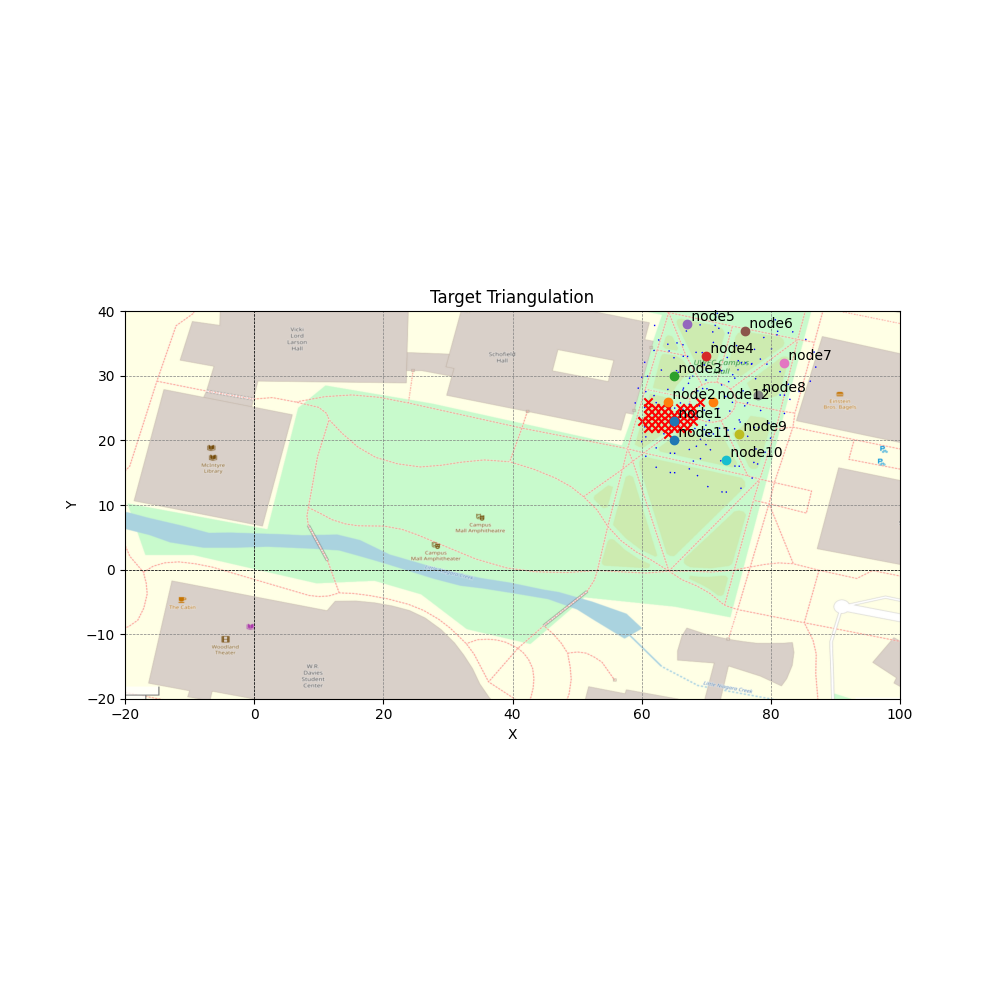
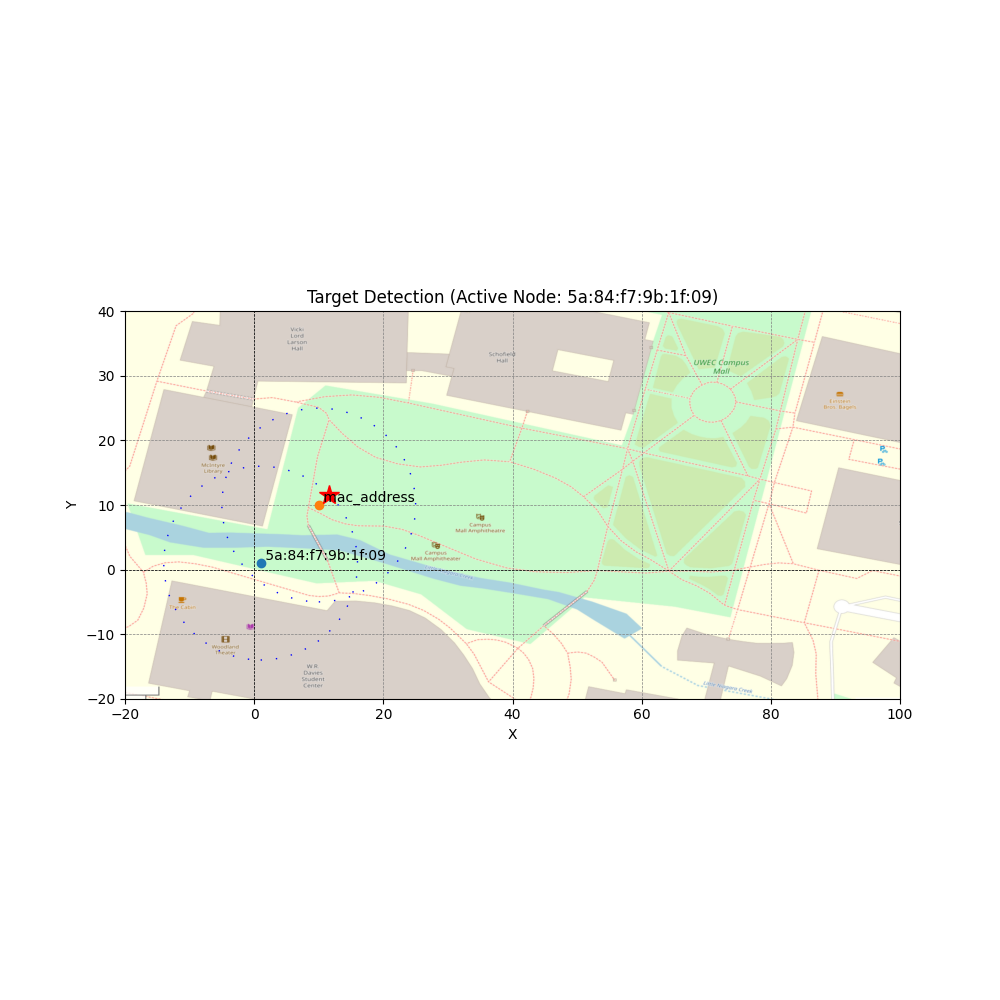
Added basic wifi functionality and start of single kiwi proof of concept

Changed region(s): [[0.31, 0.279, 0.837, 0.465], [0.279, 0.465, 0.403, 0.558], [0.248, 0.558, 0.279, 0.589]]

diff --git a/single_kiwi_tracking.py b/single_kiwi_tracking.py
@@ -1,0 +1,118 @@
+"""
+This file is only for the single kiwibot proof of concept, intended to draw the map with the location of that one kiwibot which travels between the lab and farther down VLL
+
+Therefore, it only handles a single target detected by a single node, so it just averages the location of the bot when detected by a node
+
+Range in this case will be feet. It should be just plain feet but the nodes will be inside so that complicates things, we'll probably just manually measure it with the nodes inside and adjust accordingly
+"""
+
+class Node:
+  def __init__(self, name, id, x, y, range, signal_detected=False):
+    self.name = name
+    self.id = id
+    self.x = x
+    self.y = y
+    self.range = range
+    self.signal_detected = False
+
+node1 = Node("Lab node", "5a:84:f7:9b:1f:09", 1, 1, 15)
+node2 = Node("VLL node", "mac_address", 10, 10, 15)
+
+import math
+import matplotlib.pyplot as plt
+import matplotlib.image as mpimg
+
+# Example Node class
+
+def update_nodes_from_cache(node1, node2, cache_file='cache.txt'):
+    """
+    Reads the cache file to determine which node last detected the target.
+    Each line in the file is in the format: "id strength timestamp".
+    The node with the most recent timestamp is marked as detecting the target.
+    """
+    signals = []
+    try:
+        with open(cache_file, 'r') as f:
+            for line in f:
+                parts = line.strip().split()
+                if len(parts) < 3:
+                    continue  # Skip any improperly formatted lines
+                id = parts[0]
+                strength = float(parts[1])
+                timestamp = float(parts[2])
+                signals.append((id, strength, timestamp))
+    except FileNotFoundError:
+        print(f"Cache file '{cache_file}' not found.")
+        return
+
+    if not signals:
+        print("No valid signals found in cache.")
+        return
+
+    # Determine the most recent signal by timestamp
+    signals.sort(key=lambda s: s[2], reverse=True)
+    latest_signal = signals[0]
+    id = latest_signal[0]
+
+    # Reset detection status and mark the active node
+    node1.signal_detected = (node1.id == id)
+    node2.signal_detected = (node2.id == id)
+
+    print(f"Target detected by {id} at timestamp {latest_signal[2]} with strength {latest_signal[1]}.")
+
+def plot_target(node1, node2, angle_degrees=45):
+    """
+    Plots the nodes and draws the target at a distance equal to the node's range
+    in the direction specified by angle_degrees from the active node.
+    """
+    # Determine which node detected the target
+    active_node = None
+    for node in (node1, node2):
+        if node.signal_detected:
+            active_node = node
+            break
+
+    if active_node is None:
+        print("No detection signal from either node.")
+        return
+
+    # Compute target position as an offset from the active node
+    angle = math.radians(angle_degrees)
+    target_x = active_node.x + active_node.range * math.cos(angle)
+    target_y = active_node.y + active_node.range * math.sin(angle)
+
+    # Set up the plot with a background image
+    plt.figure(figsize=(10, 10))
+    img = mpimg.imread('static/images/map.png')
+    plt.imshow(img, extent=[-20, 100, -20, 40])  # Adjust extent as needed
+
+    # Plot each node and its detection range circle
+    for node in (node1, node2):
+        circle = plt.Circle((node.x, node.y), node.range, color='blue', fill=False, linestyle=(0, (1, 10)))
+        plt.gca().add_artist(circle)
+        plt.plot(node.x, node.y, 'o', label=node.id)
+        plt.text(node.x, node.y, f' {node.id}', fontsize=10, verticalalignment='bottom')
+
+    # Mark the target position (red star)
+    plt.plot(target_x, target_y, 'r*', markersize=15, label='Target')
+
+    # Additional plot settings
+    plt.xlim(-20, 100)
+    plt.ylim(-20, 40)
+    plt.title(f'Target Detection (Active Node: {active_node.id})')
+    plt.xlabel('X')
+    plt.ylabel('Y')
+    plt.axhline(0, color='black', linewidth=0.5, linestyle='--')
+    plt.axvline(0, color='black', linewidth=0.5, linestyle='--')
+    plt.grid(color='gray', linestyle='--', linewidth=0.5)
+    plt.gca().set_aspect('equal', adjustable='box')
+    plt.savefig('static/images/image.png')
+    #plt.show()
+
+
+while True:
+    # Update node signal status based on the latest cache data
+    update_nodes_from_cache(node1, node2, cache_file='cache')
+
+    # Plot the nodes and the computed target location
+    plot_target(node1, node2, angle_degrees=45)

diff --git a/wifi_signals.py b/wifi_signals.py
@@ -1,0 +1,89 @@
+"""
+TODO:
+    - Needs to get the config from the server
+    - Needs to register itself with tits mac address
+    - Needs to ping the server with signatures
+"""
+
+import subprocess
+import re
+import time
+import requests
+from getmac import get_mac_address
+mac_address = get_mac_address()
+
+url = 'http://127.0.0.1:5000/'
+
+# Register the node
+registration = {'id': mac_address}
+x = requests.post(url+"/register", json = registration)
+
+def get_config(central_server_endpoint):
+
+    config = (requests.get(central_server_endpoint+"config").text)
+
+    with open("config", "w") as file:
+        file.write(config)
+
+def rescan_wifi():
+    # Forces nmcli to rescan the available networks to get an updated profile of surrounding signals, otherwise it uses a cache for some time
+    try:
+        subprocess.run(['nmcli', 'device', 'wifi', 'rescan'], check=True)
+    except subprocess.CalledProcessError as e:
+        print("Error rescanning Wi-Fi networks:", e)
+
+def get_wifi_networks():
+    # Gets available Wifi SSIDs and signal strength using nmcli
+    try:
+        result = subprocess.run(['nmcli', '-t', '-f', 'SSID,SIGNAL', 'dev', 'wifi'], capture_output=True, text=True, check=True)
+        networks = [line.split(':') for line in result.stdout.strip().split('\n')]
+        return [(ssid, signal) for ssid, signal in networks if ssid]  # Remove empty SSIDs
+    except subprocess.CalledProcessError as e:
+        print("Error fetching Wi-Fi networks:", e)
+        return []
+
+def filter_networks(networks, pattern):
+    # Filters the found networks using the target_address regex string
+    regex = re.compile(pattern)
+    return [(ssid, signal) for ssid, signal in networks if regex.search(ssid)]
+
+def main():
+
+    config = {}
+    
+    with open("config", 'r') as file:
+        for line in file:
+            # Strip leading/trailing whitespace and skip empty lines or comments
+            line = line.strip()
+            if line and not line.startswith("#"):  # Skips comments starting with '#'
+                var_name, var_value = line.split(maxsplit=1)  # Split into name and value
+                config[var_name] = var_value
+
+    print(config)
+    pattern = config['target_address']
+    if pattern == "none":
+        pattern = False
+    
+    while True:
+        rescan_wifi()
+        networks = get_wifi_networks()
+        if not networks:
+            print("No Wi-Fi networks found.")
+        else:
+            print("Sending Available Networks")
+
+            if pattern: 
+                networks = filter_networks(networks, pattern)
+            
+            for ssid, signal in networks:
+
+                ping = {'id': mac_address, 'ssid': ssid, 'strength': signal}
+                x = requests.post(url+"/ping", json = ping)
+
+                #print(f"SSID: {ssid}, Signal Strength: {signal}%")
+        
+        time.sleep(1)
+        
+if __name__ == "__main__":
+    get_config(url)
+    main()

diff --git a/server.py b/server.py
@@ -28,7 +28,7 @@ Functions:
 """
 
 from flask import Flask, request, render_template, jsonify
-import hashlib, csv
+import hashlib, csv, time
 
 app = Flask(__name__)
 
@@ -36,7 +36,7 @@ global toAdd
 toAdd=[]
 
 # Destroy the existing node database and cache
-open('nodes.csv', 'w').close()
+#open('nodes.csv', 'w').close()
 open('cache', 'w').close()
 
 @app.route('/', methods=['GET'])
@@ -113,11 +113,22 @@ def ping():
     # Test if the node is in the database, if not tell it to register
 
     # Node can ping the target
-    id = request.args.get('id')
+    data = request.get_json()
+
+    id = data.get('id')
+    ssid = data.get('ssid')  # This label should be changed so it can apply to bluetooth and wifi signals
+    strength = data.get('strength')
+
+    print(id, ssid, strength)
+
+    # Add target filtering here, make nodes do this in the future but they need to load the config from the central server
 
     # Write to the cache
+
+    with open("cache", "a") as file:
+        file.write(f"{id} {strength} {time.time()}\n")
     
-    return 
+    return "Accepted"
 
 @app.route('/config_version', methods=['GET'])
 def config_version():

diff --git a/readme.md b/readme.md
@@ -4,11 +4,15 @@ This is the code for a research project. It's goal is to determine how well an a
 
 ## Running
 
-If you want to run it, clone the repo, create a python virtual environment from the requirments file with `python -m venv env` and then `pip install -r requirments.txt`, and then run it with `python3 server.py`
+If you want to run it, clone the repo, create a python virtual environment from the requirements file with `python -m venv env` and then `pip install -r requirments.txt`, and then run it with `python3 server.py`
 
 This will start the server, there's a basic cline tin client.py which registers a node
 
 **This software is in no way stable**
+
+## TODO
+
+- Adjust to wifi for kiwi bots
 
 ## Parts
 
@@ -54,21 +58,25 @@ server.py and clock.py will have to run at the same time
 The config file provides an easy interface to test different settings and distribute to the many followers with ease. When nodes boot up they read the config and adjust
 
 - target_address (string)
-  - The target's bluetooth mac address
+  - A regex string for the target's bluetooth or wifi mac address, can be a comma-separate list of targets
+- detection_method (wifi/bluetooth)
+  - Whether to use bluetooth or wifi for target detection
 - le (bool)
-  - Whether to scan le or just scan on the nodes
+  - Whether to scan le or just scan on the nodes (only when detection_method=bluetooth)
 - config_update_wait (int)
   - The number of seconds before the nodes should re-check the configs on the server
 - clock_delay (int)
   - The number of seconds the clock should wait before reloading the map
 - range (x, x, y, y)
   - The bounds for the search grid
+- offline (bool)
+  - Whether the ping signatures should be reported to a central server. Some situations might not allow the node to send the pings over a network, so the pings will be saved in a file specified in offline_report_file (default is ./logs)
+- offline_report_file (file/path/string)
+  - The file path to the report that offline logs should be saved to if offline is set to True
 
 ## Developing
 
 ### Technical Overview
-
-I know and prefer Python so everything is in Python.
 
 server.py holds the server which runs on the laptop, client.py holds my progress towards the client which would be on a node.
 
@@ -78,11 +86,12 @@ calculator.py holds the functions which take the nodes which can detect the targ
 
 clock.py is the py file which waits for x seconds, an then takes the cache created by server.py and uses calculator.py to generate the image. clock.py is also the place where logic for compensating for real world conditions will be.
 
-### Version Control
-
-We'll use Github for version control, a private repo for now, we can talk about open sourcing later.
-
 ### Todo
 
 - Add an option on the dashboard which has the list of nodes and their ips, and have a button for each one which pings them to see if they're online and running
 - Make the ping function tell the node to re register if its not already registered
+- Add offline function to save logs to an offline file which can be collected and correlated later
+- Make calculations take signal strength into account
+- Make calculations take multiple targets into account and add tracking to map
+- Add a way to give nodes an ip endpoint for the central server
+- Add a way to save the images for different times and compress them into a video for a time lapse or non time lapse playback
